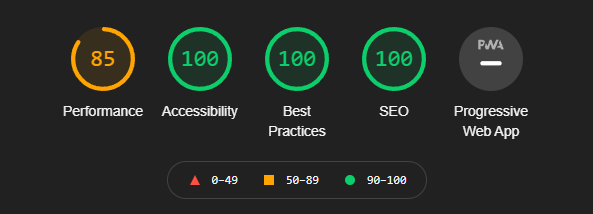
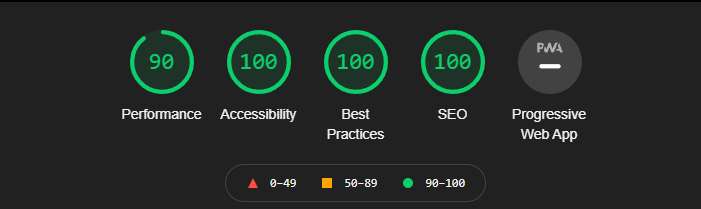
updated lighthouse pic in testing.md, extended contents, removed duplicate sentences

diff --git a/assets/css/style.css b/assets/css/style.css
@@ -67,7 +67,7 @@ h1 {
     width: 600px;
     height: 800px;
     margin-left: 1em;
-    background: url(../images/clipboard1.webp)no-repeat;
+    background: url(../images/clipboard.webp)no-repeat;
     background-size: cover;
     text-align: center;
 }
@@ -114,7 +114,7 @@ h1 {
     height: 225px;
     font-size: 1.4em;
     padding: 1.5em 0 0 1.5em;
-    background: url(../images/box1.webp)no-repeat;
+    background: url(../images/box.webp)no-repeat;
     background-size: 700px 250px;
 }
 
@@ -164,7 +164,7 @@ ul li {
     font-size: 2.5em;
     font-weight: bold;
     padding: 1em 0 0 0;
-    background: url(../images/box1.webp)no-repeat;
+    background: url(../images/box.webp)no-repeat;
     background-size: 700px 600px;
     text-align: center;
 }
@@ -252,7 +252,7 @@ ul li {
     height: 400px;
     width: 600px;
     border-radius: 5px;
-    background: url(../images/box1.webp)no-repeat;
+    background: url(../images/box.webp)no-repeat;
     background-size: 600px 400px;
     background-color: white;
     position: fixed;

diff --git a/TESTING.md b/TESTING.md
@@ -1,10 +1,15 @@
 ## Contents 
 
-   * [Validators](#validators)
-   * [User stories testing](#user-stories-testing)
-   * [Feature Testing](#feature-testing)
-   * [Further Testing](#further-testing)
-   * [Bugs](#bugs)
+- [Validators](#validators)
+- [User stories testing](#user-stories-testing)
+- [Feature Testing](#feature-testing)
+    * [Rules Area](#rules-area)
+    * [Options Area](#options-area)
+    * [Game Area](#game-area)
+    * [Feedback Area](#feedback-area)
+    * [Footer](#footer)
+- [Further Testing](#further-testing)
+- [Bugs](#bugs)
 
 ## Validators
 - HTML
@@ -15,18 +20,16 @@
 
 - JavaScript
 
-   * ![jshint](assets/readme-assets/images/jshint.png)
+   ![jshint](assets/readme-assets/images/jshint.png)
 
 - Lighthouse 
-    - Desktop 
+    * Desktop 
 
-    * ![Lighthouse desktop results](assets/readme-assets/images/lighthouse-desktop.png)
+    ![Lighthouse desktop results](assets/readme-assets/images/lighthouse-desktop.png)
 
-    - Mobile
+    * Mobile
 
-    * ![Lighthouse mobile results](assets/readme-assets/images/lighthouse-mobile.png)
-
-The only thing that seems to be affecting the lighthouse results negatively seems to be server side which is out of my control.
+    ![Lighthouse mobile results](assets/readme-assets/images/lighthouse-mobile.png)
 
 ## User stories Testing
 
@@ -75,7 +78,7 @@ The only thing that seems to be affecting the lighthouse results negatively seem
 
 ## Feature Testing
 
-### Rules
+### Rules Area
 
 - Checked if clicking downward chevron opens rules on both phone and tablet screen sizes.
 - Checked if the close button works on rules for tablets.
@@ -84,7 +87,7 @@ The only thing that seems to be affecting the lighthouse results negatively seem
 - Checked that when the feedback box is showing and the downward chevron is clicked that it still brings up rules but keeps them behind the feedback box.
 - Checked that the click sound effect played when opening/closing rules if the game is unmuted.
 
-### Options
+### Options Area
 
 - Selected each difficulty option and checked how long each question stayed on screen before changing, making sure it matches what was intended.
 - Checked that the difficulty couldnt be changed whilst the game was active.
@@ -114,7 +117,7 @@ The only thing that seems to be affecting the lighthouse results negatively seem
 - Checked that the fanfare sound effect plays if highscore was beaten.
 - Checked that the lose sound effect plays if the user scores zero.
 
-### Feedback 
+### Feedback Area
 
 - Checked that the feedback box appears after the game ends.
 - Checked that the game could not be started when the feedback box is visible.
@@ -136,11 +139,6 @@ The only thing that seems to be affecting the lighthouse results negatively seem
 - The site was tested on google chrome, edge, firefox and safari browsers.
 - The site was viewed on multiple devices such as desktop (including an ultra wide monitor), iphone, ipad, ipad mini, and laptop.
 - Responsiveness was tested using google chrome dev tools to check multiple device sizes.
-- All links were checked extensively to make sure they direct the user to the correct location.
-- The game was played extensively using variations of all possible options.
-- Score and highscores were checked to make sure they update correctly across all game difficulties.
-- Sound was tested to make sure nothing is played when the game is muted. 
-
 
 ### Bugs
 
